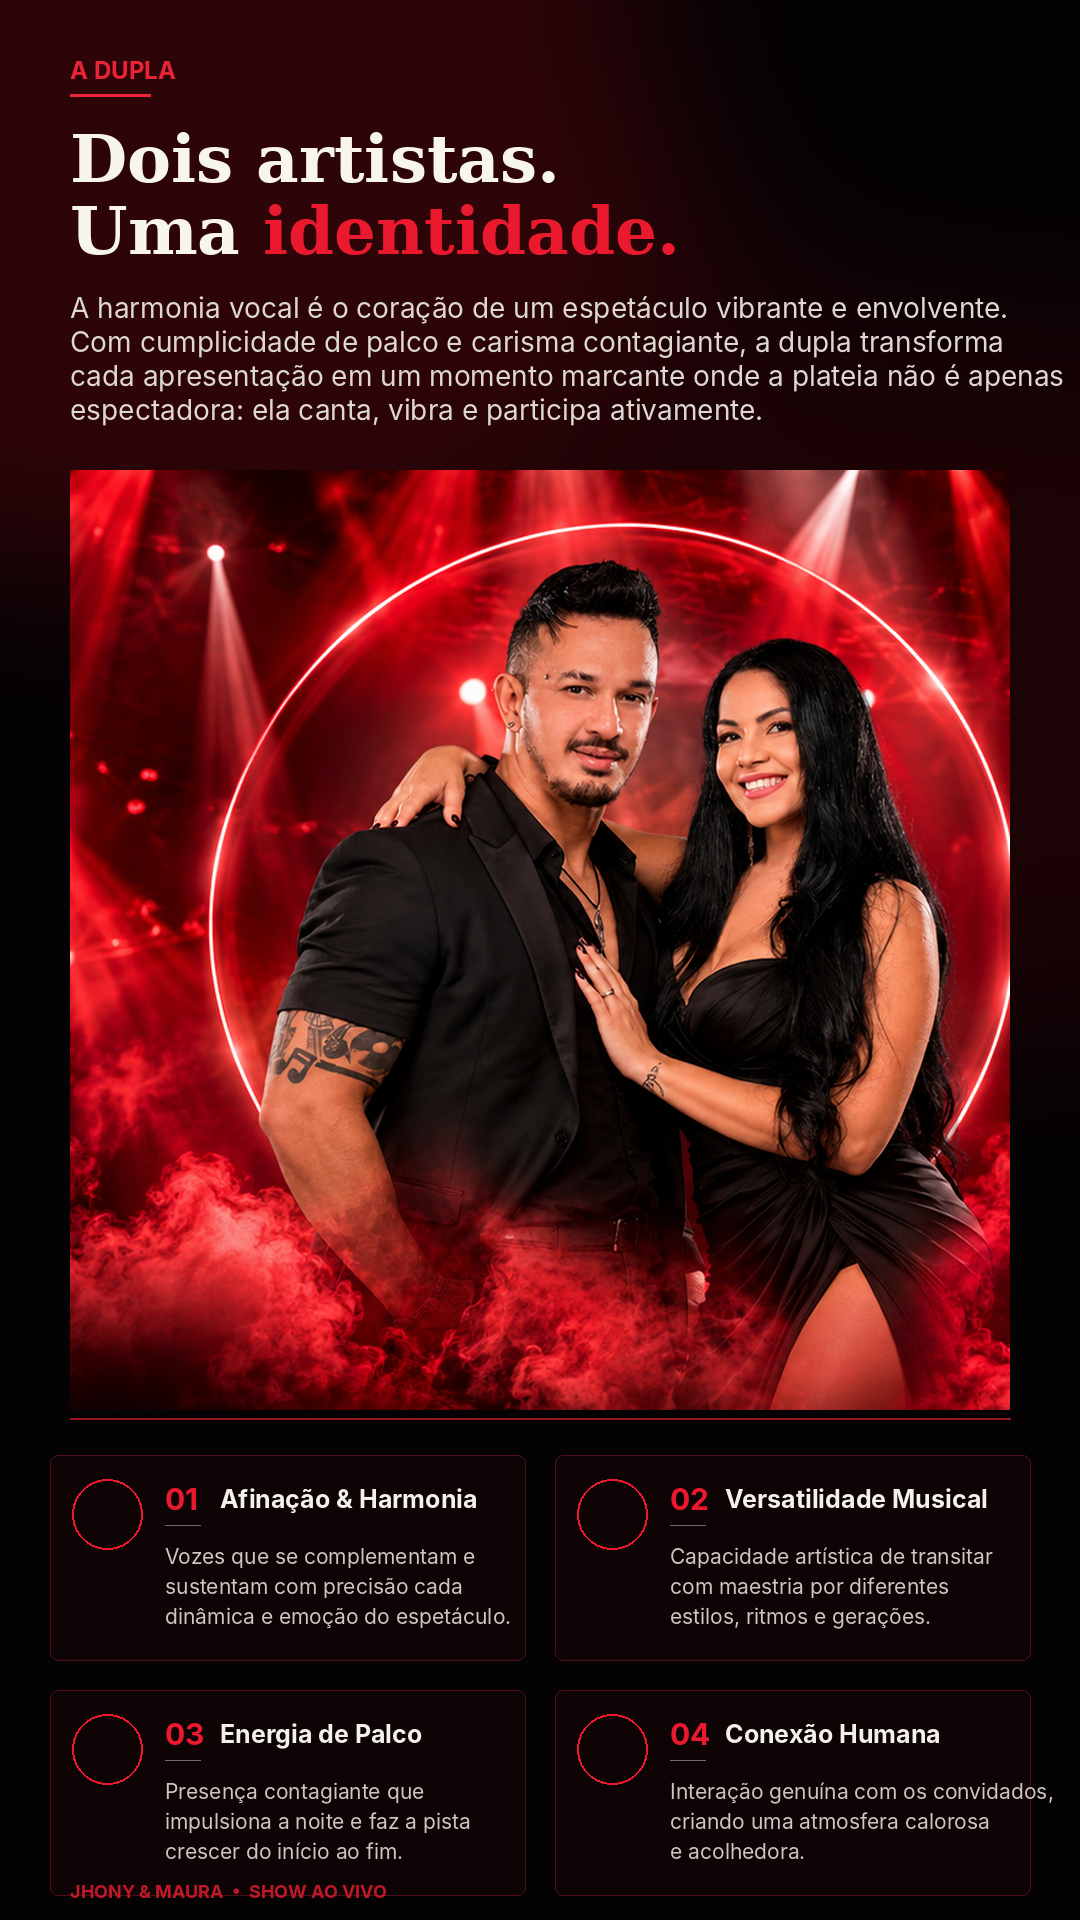
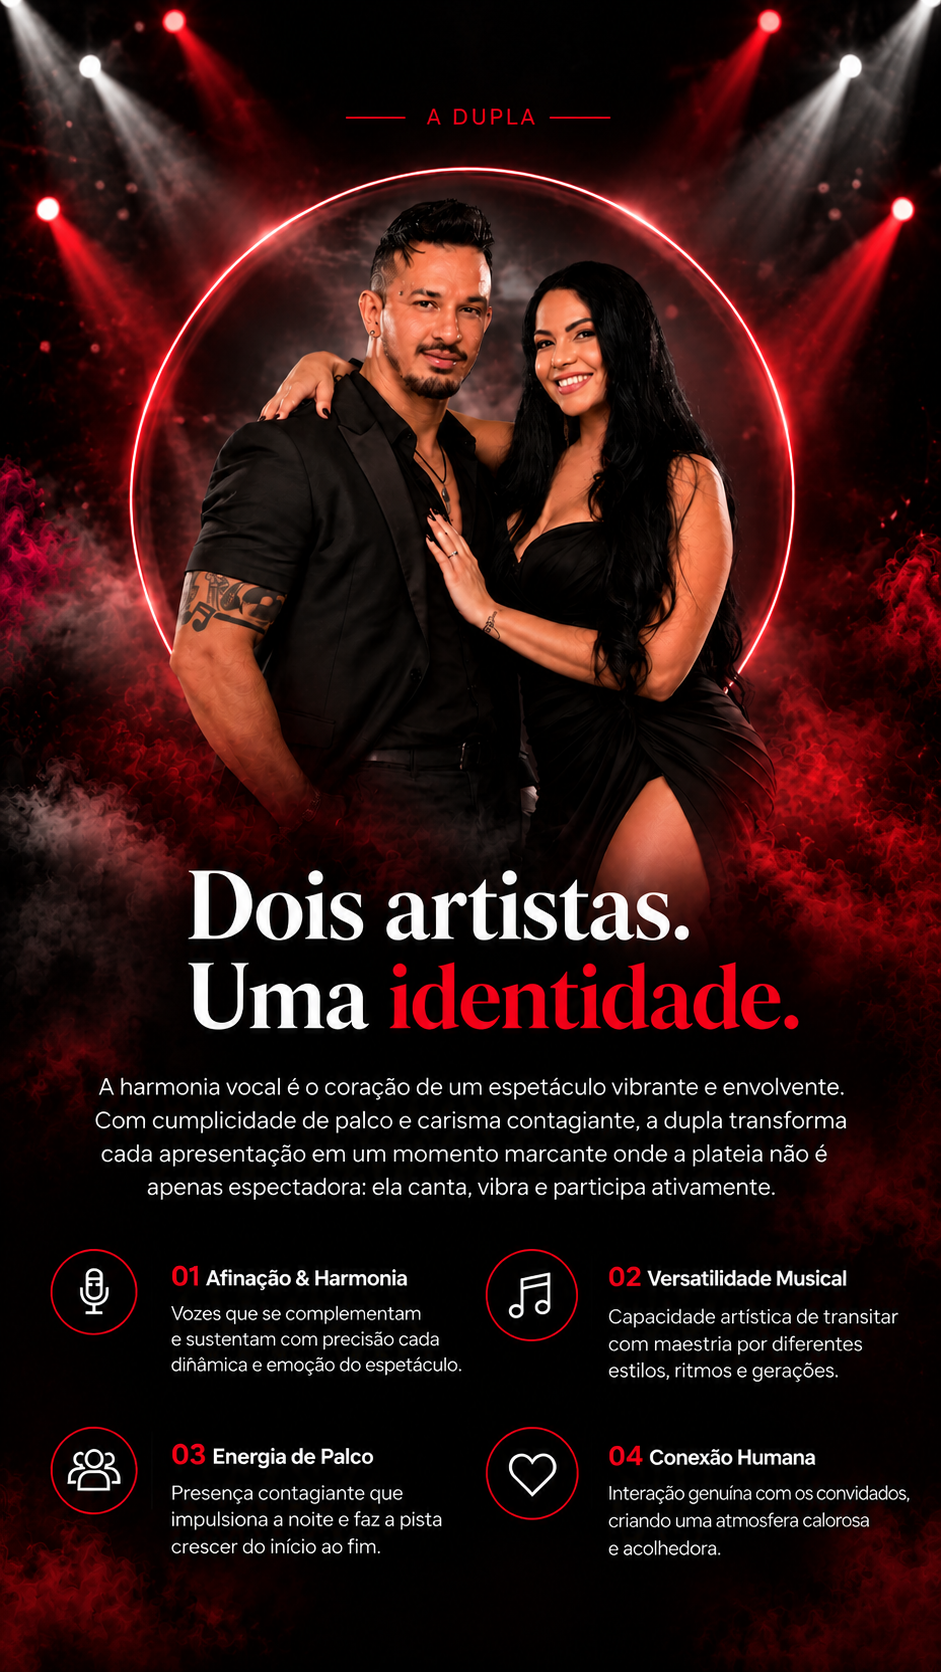
fix: ui/ux

diff --git a/style.css b/style.css
@@ -141,6 +141,7 @@ html {
 }
 
 .scene--hero {
+    position: relative;
     padding: 0;
     margin-bottom: 0;
 }
@@ -260,17 +261,21 @@ html {
 
 /* A base do hero respira para a próxima área; não cria uma faixa escura. */
 .scene--hero::after {
-    content: '';
+    content: "";
     position: absolute;
-    left: -12%;
-    right: -12%;
-    bottom: -2.5rem;
-    height: clamp(4rem, 8vw, 7rem);
-    z-index: 4;
+    z-index: 10;
+
+    left: 0;
+    right: 0;
+    bottom: -60px;
+
+    height: 60px;
+
     pointer-events: none;
-    background:
-        radial-gradient(ellipse 62% 75% at 50% 10%, rgba(124, 24, 22, 0.16) 0%, rgba(85, 16, 15, 0.07) 42%, transparent 78%);
-    filter: blur(18px);
+
+    background: linear-gradient(to bottom,
+            rgba(0, 0, 0, 0.08),
+            #000 100%);
 }
 
 .hero-container {
@@ -3646,11 +3651,218 @@ body,
     .scene--hero::after {
         bottom: -42px;
         height: 42px;
+    }
+}
 
-        background: linear-gradient(to bottom,
-                rgba(0, 0, 0, 0.15),
-                #000);
+.scene--hero::after {
+    bottom: -42px;
+    height: 42px;
 
-        filter: none;
+    background: linear-gradient(to bottom,
+            rgba(0, 0, 0, 0.15),
+            #000);
+
+    filter: none;
+}
+
+/* ==========================================================
+   FINAL PASS — HERO → A DUPLA
+   Respiro + transição cinematográfica.
+   Não altera estrutura, assets, componentes ou JS existentes.
+   ========================================================== */
+
+.scene--hero {
+    position: relative;
+    z-index: 2;
+    isolation: isolate;
+}
+
+/* Final suave do hero: nada de linha dura entre as cenas. */
+.scene--hero::after {
+    content: "";
+    position: absolute;
+    z-index: 8;
+    left: 0;
+    right: 0;
+    bottom: -1px;
+    height: clamp(28px, 4vw, 64px);
+    pointer-events: none;
+
+    background:
+        linear-gradient(to bottom,
+            rgba(3, 1, 1, 0) 0%,
+            rgba(3, 1, 1, .55) 48%,
+            rgba(3, 1, 1, .96) 100%);
+
+    filter: none;
+}
+
+/* Respiro real entre Hero e A DUPLA. */
+.scene--hero+.scene.duo-section,
+.scene--hero+.scene.duo-cinematic-section {
+    margin-top: clamp(42px, 5vw, 82px) !important;
+}
+
+/* Compatibilidade caso exista um marquee entre Hero e A DUPLA. */
+.scene--hero+.marquee-track+.scene.duo-section,
+.scene--hero+.marquee-track+.scene.duo-cinematic-section {
+    margin-top: clamp(42px, 5vw, 82px) !important;
+}
+
+/* Atmosfera discreta no espaço de transição. */
+.scene--hero+.scene.duo-section::before,
+.scene--hero+.scene.duo-cinematic-section::before,
+.scene--hero+.marquee-track+.scene.duo-section::before,
+.scene--hero+.marquee-track+.scene.duo-cinematic-section::before {
+    content: "";
+    position: absolute;
+    left: 8%;
+    right: 8%;
+    top: -42px;
+    height: 84px;
+    z-index: -1;
+    pointer-events: none;
+
+    background:
+        radial-gradient(ellipse 42% 70% at 50% 50%,
+            rgba(124, 24, 22, .12) 0%,
+            rgba(53, 8, 7, .06) 38%,
+            transparent 76%);
+
+    filter: blur(18px);
+}
+
+/* ==========================================================
+   A DUPLA CINEMATOGRÁFICA — DESKTOP / MOBILE
+   ========================================================== */
+
+.duo-cinematic-desktop {
+    display: block;
+}
+
+.duo-cinematic-mobile {
+    display: none;
+}
+
+.duo-cinematic-image {
+    width: 100%;
+    height: auto;
+    display: block;
+    object-fit: contain;
+    object-position: center;
+}
+
+/* ==========================================================
+   MOBILE
+   ========================================================== */
+
+@media (max-width: 700px) {
+
+    .scene--hero {
+        margin-bottom: 0 !important;
+    }
+
+    .scene--hero::after {
+        height: 34px;
+        bottom: -1px;
+
+        background:
+            linear-gradient(to bottom,
+                rgba(3, 1, 1, 0) 0%,
+                rgba(3, 1, 1, .72) 55%,
+                #030101 100%);
+    }
+
+    .scene--hero+.scene.duo-section,
+    .scene--hero+.scene.duo-cinematic-section,
+    .scene--hero+.marquee-track+.scene.duo-section,
+    .scene--hero+.marquee-track+.scene.duo-cinematic-section {
+        margin-top: 28px !important;
+    }
+
+    .scene--hero+.scene.duo-section::before,
+    .scene--hero+.scene.duo-cinematic-section::before,
+    .scene--hero+.marquee-track+.scene.duo-section::before,
+    .scene--hero+.marquee-track+.scene.duo-cinematic-section::before {
+        top: -24px;
+        height: 48px;
+        left: 4%;
+        right: 4%;
+        filter: blur(14px);
+    }
+
+    /* Se o HTML possuir o asset mobile, ele assume automaticamente. */
+    .duo-cinematic-desktop {
+        display: none;
+    }
+
+    .duo-cinematic-mobile {
+        display: block;
+        width: 100%;
+        line-height: 0;
+    }
+
+    .duo-cinematic-mobile .duo-cinematic-image,
+    .duo-cinematic-mobile img {
+        width: 100%;
+        height: auto;
+        display: block;
+        object-fit: contain;
+        object-position: center;
+    }
+}
+
+/* ==========================================================
+   REDUÇÃO DE MOVIMENTO
+   ========================================================== */
+
+@media (prefers-reduced-motion: reduce) {
+
+    .scene--hero+.scene.duo-section,
+    .scene--hero+.scene.duo-cinematic-section,
+    .scene--hero+.marquee-track+.scene.duo-section,
+    .scene--hero+.marquee-track+.scene.duo-cinematic-section {
+        margin-top: 32px !important;
+    }
+}
+
+/* ==========================================================
+   FINAL — A DUPLA / MOBILE ASSET APROVADO
+   Não altera o desktop.
+   Não altera o asset.
+   ========================================================== */
+
+.duo-cinematic-mobile {
+    display: none;
+}
+
+@media (max-width: 700px) {
+    .duo-cinematic-desktop {
+        display: none !important;
+    }
+
+    .duo-cinematic-mobile {
+        display: block !important;
+        width: 100%;
+        margin: 0;
+        padding: 0;
+        line-height: 0;
+        background: #050203;
+    }
+
+    .duo-cinematic-mobile .duo-cinematic-image {
+        display: block !important;
+        width: 100%;
+        height: auto;
+        max-width: none;
+        margin: 0;
+        object-fit: contain;
+        object-position: center;
+    }
+
+    /* O respiro continua sendo controlado pela transição,
+       não por uma faixa preta inserida dentro da arte. */
+    .scene--hero+.scene.duo-cinematic-section {
+        margin-top: 28px !important;
     }
 }

diff --git a/html/home.html b/html/home.html
@@ -152,21 +152,6 @@
         document.documentElement.classList.remove('no-js');
         document.documentElement.classList.add('js');
     </script>
-
-    <style>
-        .duo-cinematic-picture {
-            display: block;
-            width: 100%;
-            line-height: 0;
-        }
-
-        .duo-cinematic-picture img {
-            display: block;
-            width: 100%;
-            height: auto;
-        }
-    </style>
-
 </head>
 
 <body>
@@ -288,78 +273,17 @@
                 pois o texto incorporado na arte não seria legível em telas pequenas.
             -->
             <div class="duo-cinematic-desktop" aria-label="Apresentação da dupla e seus diferenciais">
-                <picture class="duo-cinematic-picture">
-                    <source media="(max-width: 700px)" srcset="../assets/a-dupla-cinematic-mobile-v2.png"><img
-                        src="../assets/a-dupla-cinematic.png"
-                        alt="Dois artistas em uma atmosfera de palco com luzes vermelhas, fumaça e os principais diferenciais do espetáculo."
-                        class="duo-cinematic-image" loading="lazy">
-                </picture>
+                <img src="../assets/a-dupla-cinematic.png"
+                    alt="Dois artistas em uma atmosfera de palco com luzes vermelhas, fumaça e os principais diferenciais do espetáculo."
+                    class="duo-cinematic-image" loading="lazy">
             </div>
 
             <div class="duo-cinematic-mobile">
-                <div class="container">
-                    <div class="section-header">
-                        <span class="section-eyebrow">A DUPLA</span>
-                        <h2 class="section-title">
-                            Dois artistas. Uma identidade.<br>
-                            Um show pensado para conectar pessoas.
-                        </h2>
-                    </div>
-
-                    <div class="duo-grid">
-                        <div class="duo-media reveal-up">
-                            <div class="duo-image-wrapper">
-                                <img src="../assets/J&M.png" alt="Dupla em apresentação" class="duo-image"
-                                    loading="lazy">
-                            </div>
-                        </div>
-
-                        <div class="duo-content reveal-up">
-                            <p class="duo-lead">
-                                A harmonia vocal é o coração de um espetáculo vibrante e envolvente.
-                                Com cumplicidade de palco e carisma contagiante, a dupla transforma cada
-                                apresentação em um momento marcante onde a plateia não é apenas espectadora:
-                                ela canta, vibra e participa ativamente.
-                            </p>
-
-                            <div class="pillars-list">
-                                <div class="pillar-item">
-                                    <div class="pillar-header">
-                                        <span class="pillar-num">01</span>
-                                        <h3>Afinação & Harmonia</h3>
-                                    </div>
-                                    <p>Vozes que se complementam e sustentam com precisão cada dinâmica e emoção do
-                                        espetáculo.</p>
-                                </div>
-                                <div class="pillar-item">
-                                    <div class="pillar-header">
-                                        <span class="pillar-num">02</span>
-                                        <h3>Versatilidade Musical</h3>
-                                    </div>
-                                    <p>Capacidade artística de transitar com maestria por diferentes estilos, ritmos e
-                                        gerações.</p>
-                                </div>
-                                <div class="pillar-item">
-                                    <div class="pillar-header">
-                                        <span class="pillar-num">03</span>
-                                        <h3>Energia de Palco</h3>
-                                    </div>
-                                    <p>Presença contagiante que impulsiona a noite e faz a pista crescer do início ao
-                                        fim.</p>
-                                </div>
-                                <div class="pillar-item">
-                                    <div class="pillar-header">
-                                        <span class="pillar-num">04</span>
-                                        <h3>Conexão Humana</h3>
-                                    </div>
-                                    <p>Interação genuína com os convidados, criando uma atmosfera calorosa e acolhedora.
-                                    </p>
-                                </div>
-                            </div>
-                        </div>
-                    </div>
-                </div>
+                <img src="../assets/a-dupla-cinematic-mobile-v2.png"
+                    alt="A Dupla — apresentação cinematográfica com luzes, fumaça e os artistas"
+                    class="duo-cinematic-image" loading="lazy">
             </div>
+
         </section>
 
 
